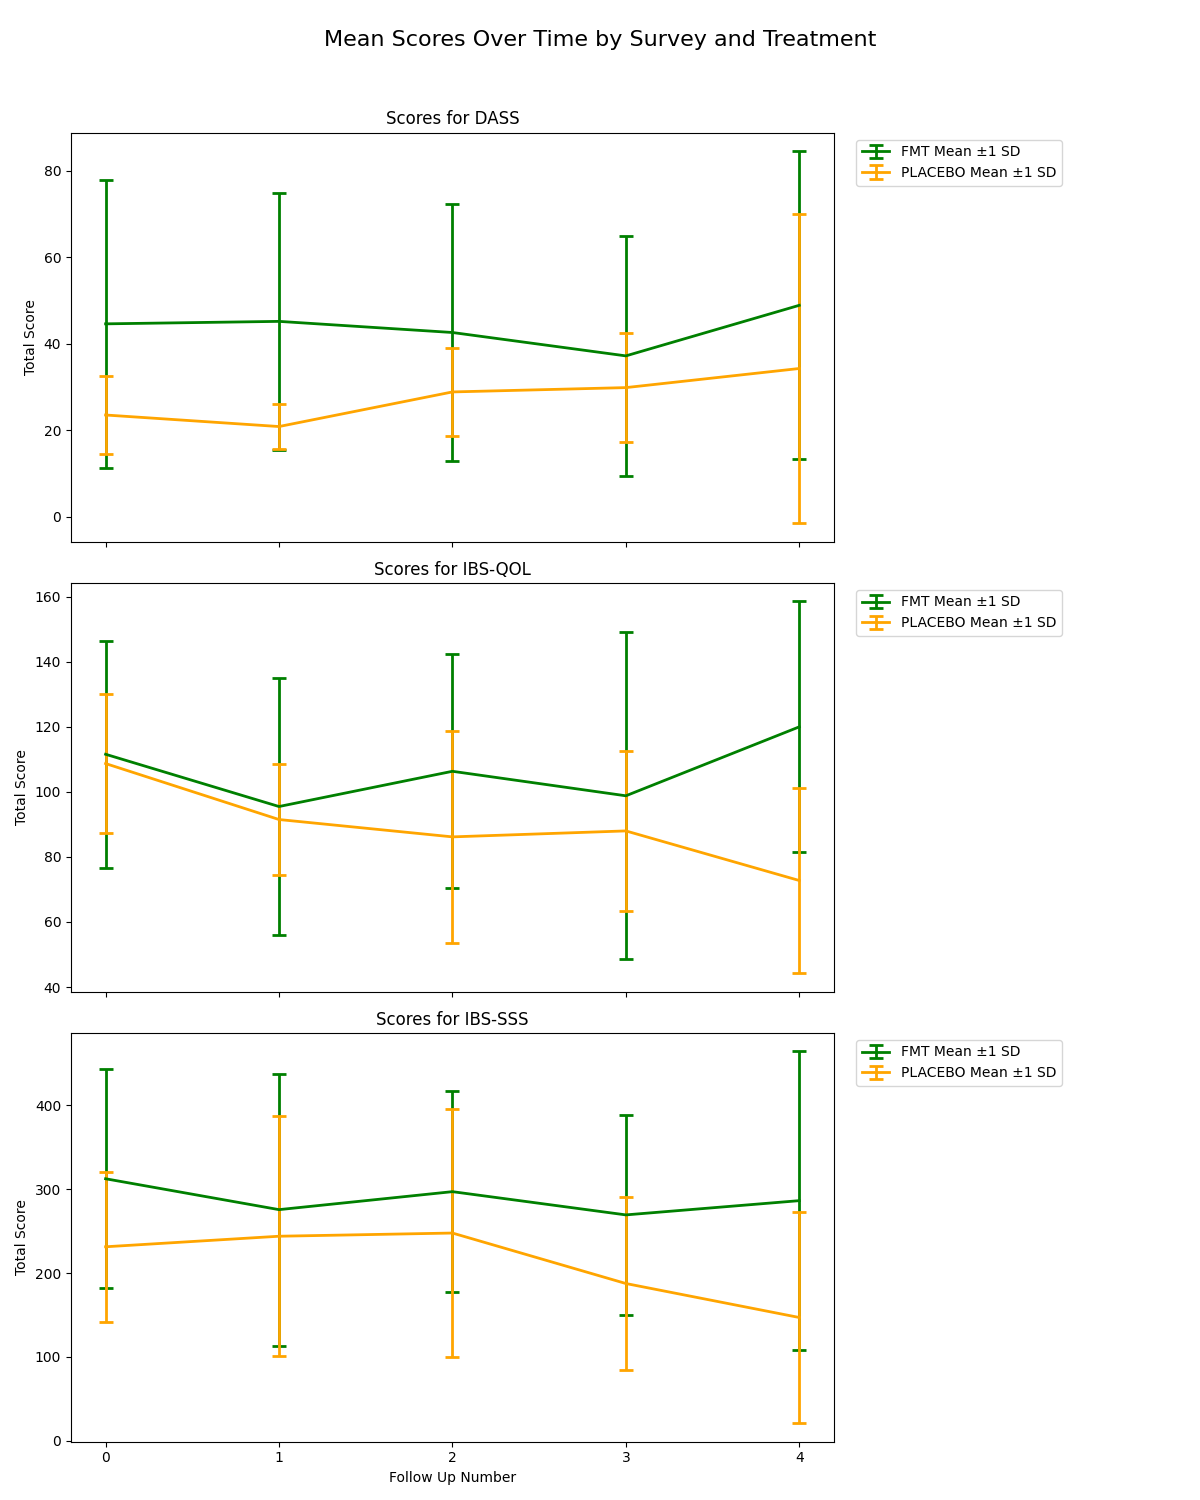
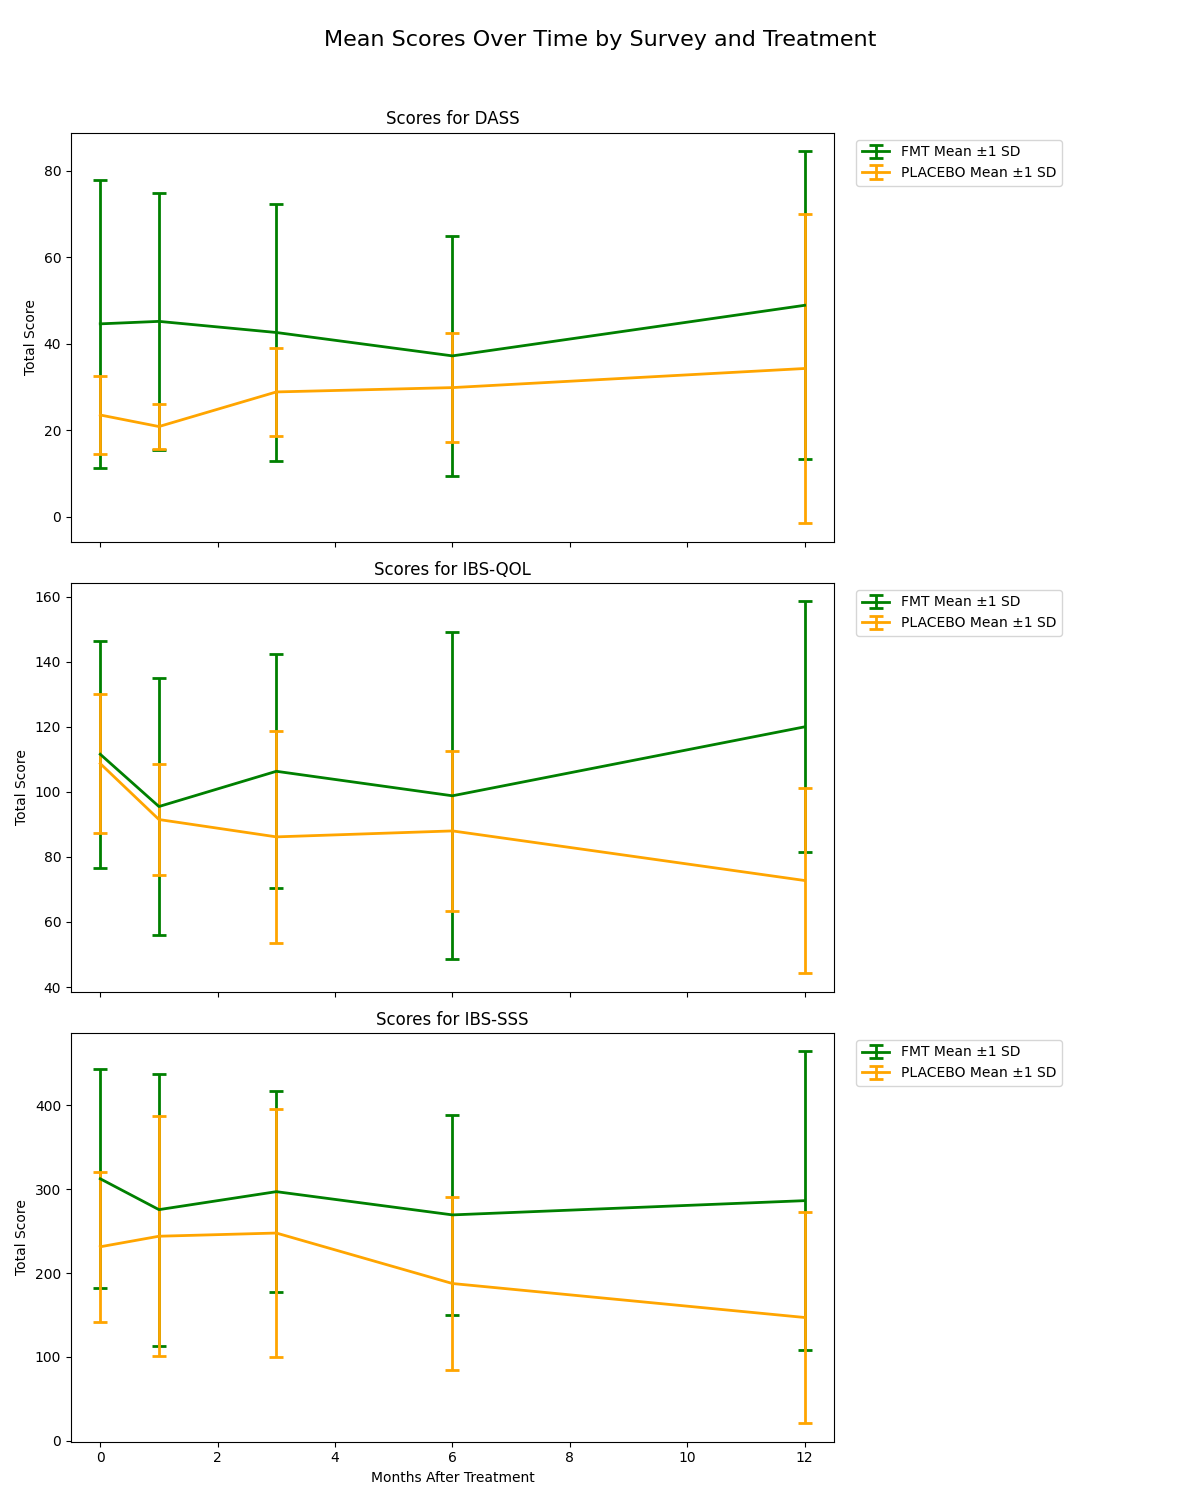
X axis in months

diff --git a/plot_scores_with_avg.py b/plot_scores_with_avg.py
@@ -24,6 +24,18 @@ df['patient_number'] = df['patient_number'].astype(str)
 # Ensure patient_fmt_or_p is string and uppercase for consistent mapping
 df['patient_fmt_or_p'] = df['patient_fmt_or_p'].astype(str).str.upper()
 
+# Create mapping from follow-up number to months
+follow_up_to_months = {
+    0: 0,   # baseline
+    1: 1,   # 1 month
+    2: 3,   # 3 months
+    3: 6,   # 6 months
+    4: 12   # 12 months
+}
+
+# Add months column to dataframe
+df['months'] = df['follow_up_number'].map(follow_up_to_months)
+
 # Get unique survey names
 survey_names = sorted(df['survey_name'].unique()) # Sort for consistent order
 num_surveys = len(survey_names)
@@ -35,7 +47,7 @@ if num_surveys == 1: # Ensure axes is always a list for consistent indexing
     axes = [axes]
 
 # Define colors for treatments
-color_mapping = {'FMT': 'green', 'PLACEBO': 'orange'}
+color_mapping = {'FMT': '#40E0D0', 'PLACEBO': '#FF6B4A'}  # Turquoise and orangy red
 
 # Create a plot for each survey on its respective subplot
 for i, survey_name in enumerate(survey_names):
@@ -44,7 +56,7 @@ for i, survey_name in enumerate(survey_names):
 
     # Sum scores per patient, per follow-up, per survey
     patient_scores_over_time = survey_df.groupby(
-        ['patient_number', 'follow_up_number', 'patient_fmt_or_p']
+        ['patient_number', 'months', 'patient_fmt_or_p']
     )['score'].sum().reset_index()
 
     # Plot individual points and calculate statistics for each treatment
@@ -53,7 +65,7 @@ for i, survey_name in enumerate(survey_names):
         
         # Plot individual points
         ax.scatter(
-            treatment_data['follow_up_number'],
+            treatment_data['months'],
             treatment_data['score'],
             color=color_mapping[treatment],
             alpha=0.6,  # Slightly transparent
@@ -61,36 +73,37 @@ for i, survey_name in enumerate(survey_names):
         )
 
         # Calculate statistics for this treatment
-        stats = treatment_data.groupby('follow_up_number')['score'].agg([
+        stats = treatment_data.groupby('months')['score'].agg([
             'mean',
             'std'
         ]).reset_index()
 
         # Plot mean line
-        ax.plot(stats['follow_up_number'], 
+        ax.plot(stats['months'], 
                 stats['mean'], 
                 color=color_mapping[treatment], 
                 linewidth=2, 
                 label=f'{treatment} Mean')
 
-        # Plot standard deviation range
-        ax.fill_between(stats['follow_up_number'],
+        # Plot standard deviation range in light grey
+        ax.fill_between(stats['months'],
                         stats['mean'] - stats['std'],
                         stats['mean'] + stats['std'],
-                        color=color_mapping[treatment],
-                        alpha=0.2,
+                        color='#D3D3D3',  # Light grey
+                        alpha=0.3,
                         label=f'{treatment} ±1 SD')
 
     ax.set_title(f'Scores for {survey_name}')
     ax.set_ylabel('Total Score')
-    # Ensure all follow-up numbers are shown as ticks
-    ax.set_xticks(sorted(patient_scores_over_time['follow_up_number'].unique()))
+    # Set x-axis ticks every 2 months from 0 to 12
+    ax.set_xticks(np.arange(0, 13, 2))
+    ax.set_xlim(-0.5, 12.5)  # Add small padding on both sides
     
     # Add legend
     ax.legend(bbox_to_anchor=(1.02, 1), loc='upper left')
 
 # Set common X-axis label on the last subplot
-axes[-1].set_xlabel('Follow Up Number')
+axes[-1].set_xlabel('Months After Treatment')
 
 # Add a main title to the figure
 fig.suptitle('Patient Scores Over Time by Survey and Treatment', fontsize=16)

diff --git a/plot_scores_hor.py b/plot_scores_hor.py
@@ -24,6 +24,18 @@ df['patient_number'] = df['patient_number'].astype(str)
 # Ensure patient_fmt_or_p is string and uppercase for consistent mapping
 df['patient_fmt_or_p'] = df['patient_fmt_or_p'].astype(str).str.upper()
 
+# Create mapping from follow-up number to months
+follow_up_to_months = {
+    0: 0,   # baseline
+    1: 1,   # 1 month
+    2: 3,   # 3 months
+    3: 6,   # 6 months
+    4: 12   # 12 months
+}
+
+# Add months column to dataframe
+df['months'] = df['follow_up_number'].map(follow_up_to_months)
+
 # Filter for only first (0) and last (4) follow-up numbers
 df = df[df['follow_up_number'].isin([0, 4])]
 
@@ -54,50 +66,48 @@ for i, survey_name in enumerate(survey_names):
     survey_df = df[df['survey_name'] == survey_name].copy()
 
     patient_scores_over_time = survey_df.groupby(
-        ['patient_number', 'follow_up_number', 'patient_fmt_or_p']
+        ['patient_number', 'months', 'patient_fmt_or_p']
     )['score'].sum().reset_index()
 
     if patient_scores_over_time.empty:
         ax.set_title(f'{survey_name}\n(No Data for FU 0/4)')
         if i == 0:
             ax.set_ylabel('Total Score')
-        ax.set_xticks([0, 4])
+        ax.set_xticks([0, 12])  # Changed to show 0 and 12 months
         print(f"No data to plot for survey: {survey_name} for follow-ups 0 and 4. Skipping subplot content.")
         continue
 
     sns.lineplot(
         data=patient_scores_over_time,
-        x='follow_up_number',
+        x='months',  # Changed from follow_up_number to months
         y='score',
-        hue='patient_number', # Still use hue for different patient colors
-        style='patient_fmt_or_p', # Use style for FMT/Placebo
+        hue='patient_number',
+        style='patient_fmt_or_p',
         dashes=style_mapping,
         markers=True,
         ax=ax,
-        legend=False # Remove legend
+        legend=False
     )
 
-    ax.margins(0.4) # Add 10% margin to both x and y axes within this subplot
+    ax.margins(0.4)
 
     ax.set_title(f'{survey_name}')
-    ax.set_xticks([0, 4]) # Set x-axis ticks to only 0 and 4
+    ax.set_xticks([0, 12])  # Changed to show 0 and 12 months
     
-    if i == 0: # Only set Y-axis label for the first (leftmost) plot
+    if i == 0:
         ax.set_ylabel('Total Score')
     else:
-        ax.set_ylabel('') # No Y-label for other plots for cleaner look if sharey=False
+        ax.set_ylabel('')
 
-    # Set common X-axis label on the middle plot (or first if less than 3 plots)
     if num_surveys > 1 and i == num_surveys // 2:
-        ax.set_xlabel('Follow Up Number')
+        ax.set_xlabel('Months After Treatment')  # Updated label
     elif num_surveys == 1:
-        ax.set_xlabel('Follow Up Number')
+        ax.set_xlabel('Months After Treatment')  # Updated label
     else:
         ax.set_xlabel('')
 
-
 # Add a main title to the figure
-fig.suptitle('Patient Scores: Start (FU 0) vs. End (FU 4) by Survey', fontsize=16)
+fig.suptitle('Patient Scores: Baseline (0 months) vs. End (12 months) by Survey', fontsize=16)  # Updated title
 
 # Adjust subplot parameters for better spacing and to accommodate suptitle
 fig.subplots_adjust(left=0.07, right=0.97, bottom=0.15, top=0.90, wspace=0.35)

diff --git a/plot_scores_lines_only.py b/plot_scores_lines_only.py
@@ -24,6 +24,18 @@ df['patient_number'] = df['patient_number'].astype(str)
 # Ensure patient_fmt_or_p is string and uppercase for consistent mapping
 df['patient_fmt_or_p'] = df['patient_fmt_or_p'].astype(str).str.upper()
 
+# Create mapping from follow-up number to months
+follow_up_to_months = {
+    0: 0,   # baseline
+    1: 1,   # 1 month
+    2: 3,   # 3 months
+    3: 6,   # 6 months
+    4: 12   # 12 months
+}
+
+# Add months column to dataframe
+df['months'] = df['follow_up_number'].map(follow_up_to_months)
+
 # Get unique survey names
 survey_names = sorted(df['survey_name'].unique()) # Sort for consistent order
 num_surveys = len(survey_names)
@@ -44,7 +56,7 @@ for i, survey_name in enumerate(survey_names):
 
     # Sum scores per patient, per follow-up, per survey
     patient_scores_over_time = survey_df.groupby(
-        ['patient_number', 'follow_up_number', 'patient_fmt_or_p']
+        ['patient_number', 'months', 'patient_fmt_or_p']
     )['score'].sum().reset_index()
 
     # Plot lines and error bars for each treatment
@@ -52,13 +64,13 @@ for i, survey_name in enumerate(survey_names):
         treatment_data = patient_scores_over_time[patient_scores_over_time['patient_fmt_or_p'] == treatment]
         
         # Calculate statistics for this treatment
-        stats = treatment_data.groupby('follow_up_number')['score'].agg([
+        stats = treatment_data.groupby('months')['score'].agg([
             'mean',
             'std'
         ]).reset_index()
 
         # Plot mean line with error bars
-        ax.errorbar(stats['follow_up_number'], 
+        ax.errorbar(stats['months'], 
                    stats['mean'],
                    yerr=stats['std'],
                    color=color_mapping[treatment],
@@ -70,14 +82,15 @@ for i, survey_name in enumerate(survey_names):
 
     ax.set_title(f'Scores for {survey_name}')
     ax.set_ylabel('Total Score')
-    # Ensure all follow-up numbers are shown as ticks
-    ax.set_xticks(sorted(patient_scores_over_time['follow_up_number'].unique()))
+    # Set x-axis ticks every 2 months from 0 to 12
+    ax.set_xticks(np.arange(0, 13, 2))
+    ax.set_xlim(-0.5, 12.5)  # Add small padding on both sides
     
     # Add legend
     ax.legend(bbox_to_anchor=(1.02, 1), loc='upper left')
 
 # Set common X-axis label on the last subplot
-axes[-1].set_xlabel('Follow Up Number')
+axes[-1].set_xlabel('Months After Treatment')
 
 # Add a main title to the figure
 fig.suptitle('Mean Scores Over Time by Survey and Treatment', fontsize=16)

diff --git a/plot_scores_vert.py b/plot_scores_vert.py
@@ -24,6 +24,17 @@ df['patient_number'] = df['patient_number'].astype(str)
 # Ensure patient_fmt_or_p is string and uppercase for consistent mapping
 df['patient_fmt_or_p'] = df['patient_fmt_or_p'].astype(str).str.upper()
 
+# Create mapping from follow-up number to months
+follow_up_to_months = {
+    0: 0,   # baseline
+    1: 1,   # 1 month
+    2: 3,   # 3 months
+    3: 6,   # 6 months
+    4: 12   # 12 months
+}
+
+# Add months column to dataframe
+df['months'] = df['follow_up_number'].map(follow_up_to_months)
 
 # Get unique survey names
 survey_names = sorted(df['survey_name'].unique()) # Sort for consistent order
@@ -47,7 +58,7 @@ for i, survey_name in enumerate(survey_names):
 
     # Sum scores per patient, per follow-up, per survey, including treatment type for styling
     patient_scores_over_time = survey_df.groupby(
-        ['patient_number', 'follow_up_number', 'patient_fmt_or_p']
+        ['patient_number', 'months', 'patient_fmt_or_p']
     )['score'].sum().reset_index()
 
     if patient_scores_over_time.empty:
@@ -58,7 +69,7 @@ for i, survey_name in enumerate(survey_names):
 
     sns.lineplot(
         data=patient_scores_over_time,
-        x='follow_up_number',
+        x='months',
         y='score',
         hue='patient_number',
         style='patient_fmt_or_p',
@@ -70,15 +81,16 @@ for i, survey_name in enumerate(survey_names):
 
     ax.set_title(f'Scores for {survey_name}')
     ax.set_ylabel('Total Score')
-    # Ensure all follow-up numbers are shown as ticks
-    ax.set_xticks(sorted(patient_scores_over_time['follow_up_number'].unique()))
+    # Set x-axis ticks every 2 months from 0 to 12
+    ax.set_xticks(np.arange(0, 13, 2))
+    ax.set_xlim(-0.5, 12.5)  # Add small padding on both sides
     
     # Adjust legend position to avoid overlap with the plot
     # Title for the legend combines patient and treatment info
     ax.legend(title='Patient / Treatment', bbox_to_anchor=(1.02, 1), loc='upper left')
 
 # Set common X-axis label on the last subplot
-axes[-1].set_xlabel('Follow Up Number')
+axes[-1].set_xlabel('Months After Treatment')
 
 # Add a main title to the figure
 fig.suptitle('Patient Scores Over Time by Survey and Treatment', fontsize=16)
